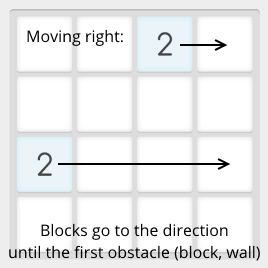
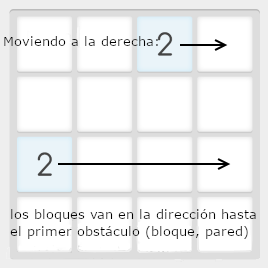
imagenes traducidas, agregado de localStorage de metricas

Changed region(s): [[0.0299, 0.7761, 0.9851, 0.9851], [0.0, 0.1194, 0.597, 0.1791]]

diff --git a/script.js b/script.js
@@ -24,6 +24,8 @@ var shareElem = document.getElementById("share");
 // NUEVO CODIGO 
 var moveCount = 0;
 var totalMoveTime = 0;
+
+var averageMoveTime;
 var levelTimes = []; // Arreglo para almacenar los tiempos de cada nivel
 
 
@@ -131,7 +133,7 @@ function moveGrid(direction) {
 	moveCount++;
 	totalMoveTime += moveTime;
 
-	var averageMoveTime = calculateAverageMoveTime();
+	averageMoveTime = calculateAverageMoveTime();
 	console.log("Promedio de tiempo entre movimientos: " + averageMoveTime + " ms");
 	console.log("Cantidad de movimientos: ", moveCount - 1)
 
@@ -263,6 +265,7 @@ function printLevelTimes() {
 	for (var i = 1; i < levelTimes.length; i++) {
 	  console.log("Nivel " + i + ": " + levelTimes[i] + " ms");
 	}
+	localStorage.setItem("2048LevelTimes", JSON.stringify(levelTimes))
   }
 
 // BEST SCORE FUNCTIONS
@@ -271,13 +274,13 @@ function getBest() {
 	best = {
 		score: localStorage.getItem("2048best") ,
 		moves: localStorage.getItem("2048bestMovesCount")
-	} 
-	;
+	};
 }
 
 function setBest(score, moves) {
 	localStorage.setItem("2048best", score);
 	localStorage.setItem("2048bestMovesCount", moves)
+	localStorage.setItem("2048AverageMoveTime", averageMoveTime)
 	best = {
 		score: score,
 		moves: moves
@@ -298,6 +301,7 @@ function gameOver() {
 	console.log("GAME OVER");
 	printLevelTimes(); // Imprimir los tiempos de cada nivel
     document.getElementById("movimientos").innerHTML="cantidad de movimientos: " + moveCount
+	console.log("PROMEDIO DE TIEMPO ENTRE MOVIMIENTOS POST GAME OVER: ", averageMoveTime , " ms")
 
 }
 
